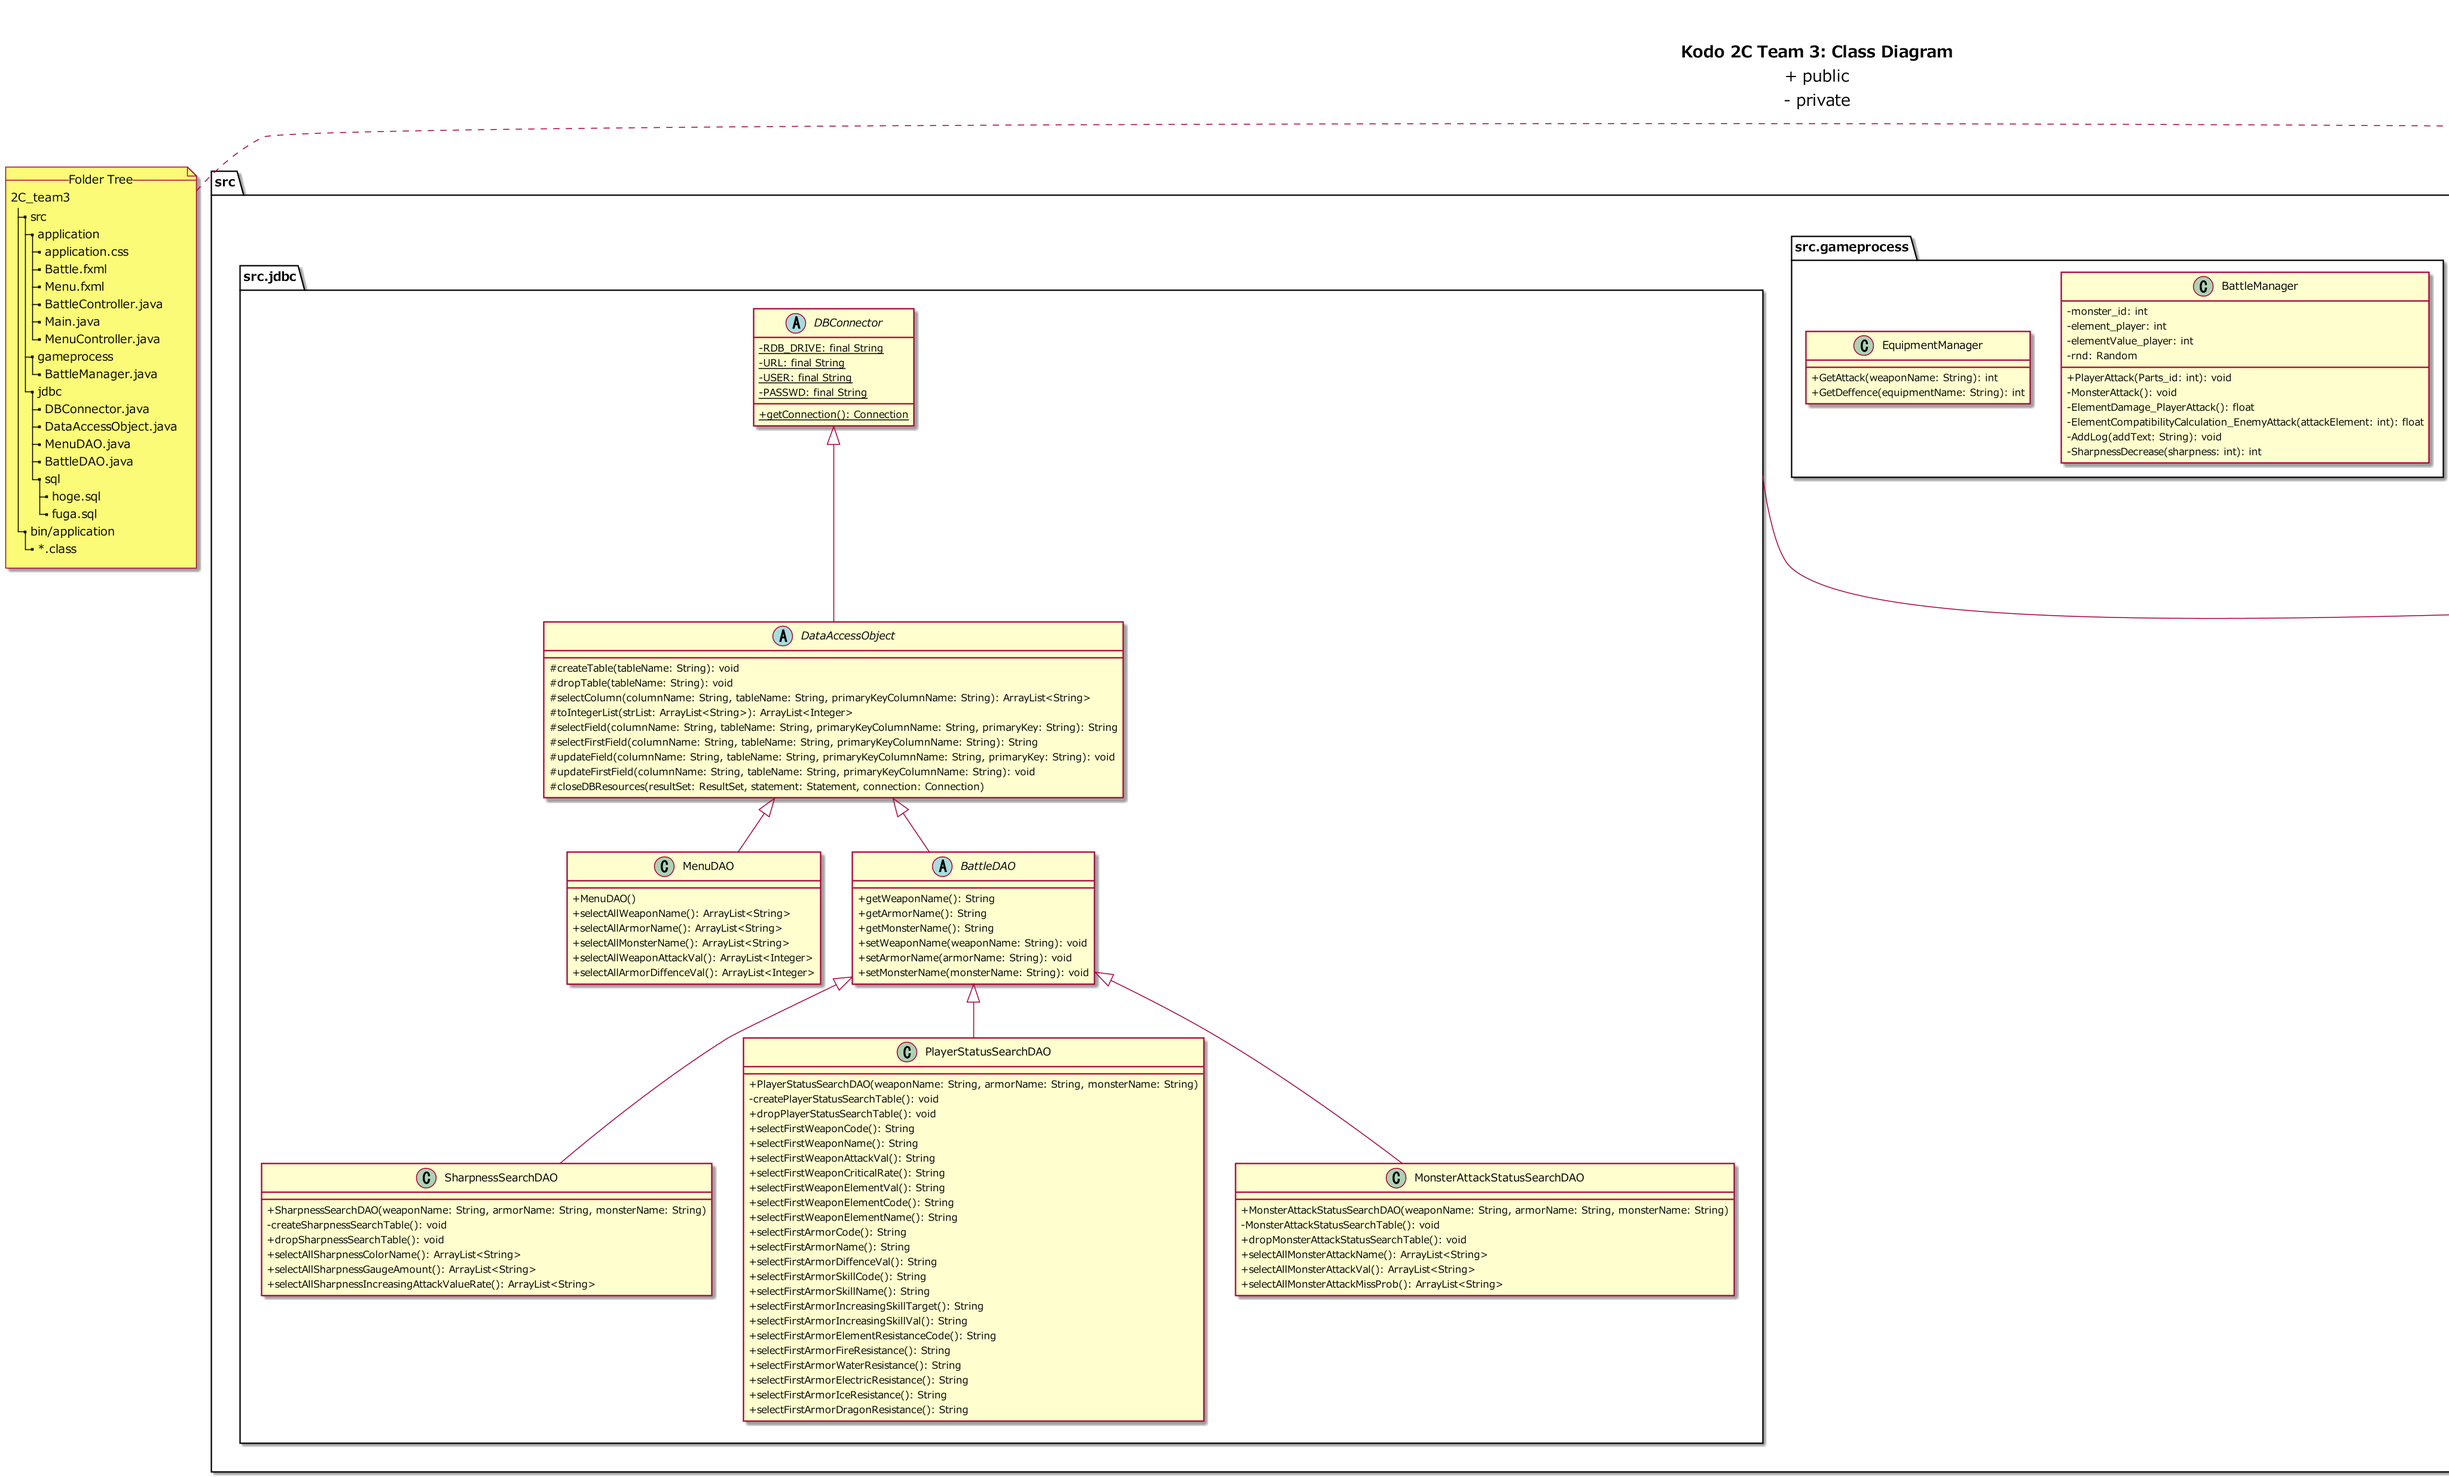
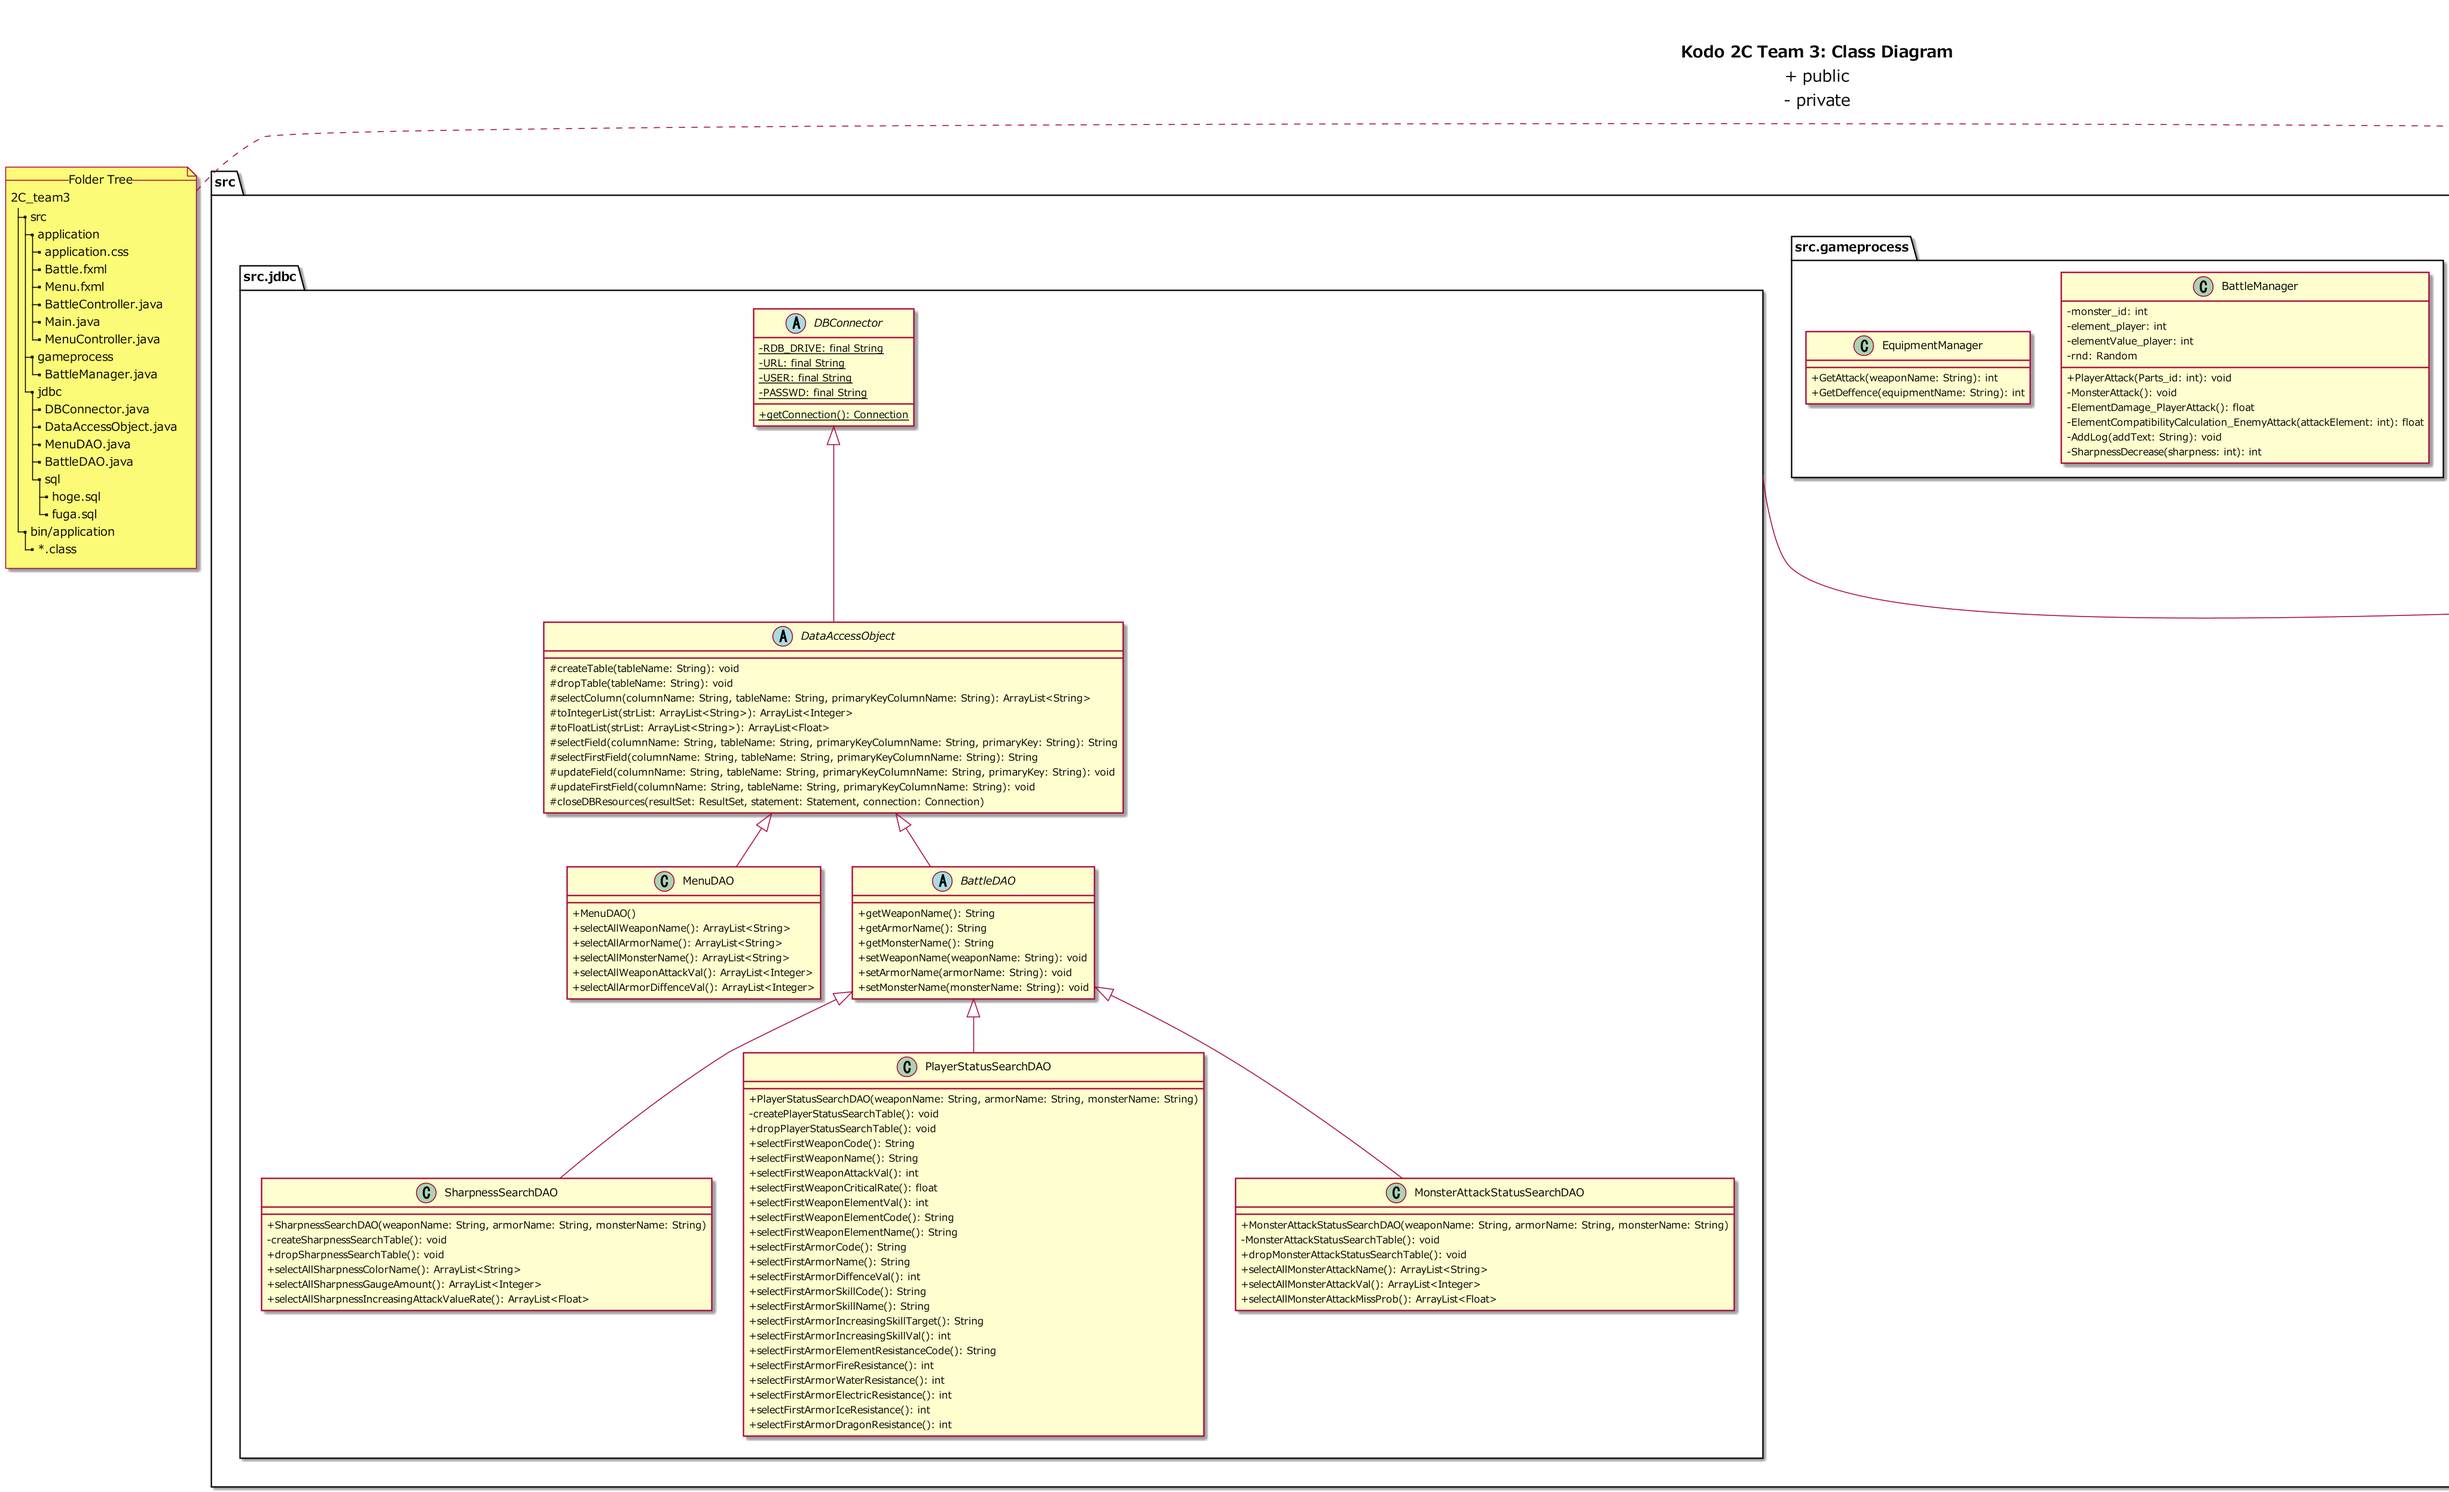
検索テーブルの返り値の型を変更

diff --git a/MonsterHunter/src/jdbc/PlayerStatusSearchDAO.java b/MonsterHunter/src/jdbc/PlayerStatusSearchDAO.java
@@ -76,11 +76,11 @@ public class PlayerStatusSearchDAO extends BattleDAO {
    * @brief 「プレイヤーステータス検索」テーブルの、武器攻撃力カラムの先頭のフィールドを返す
    * @return 武器攻撃力の先頭のフィールド
    */
-  public String selectFirstWeaponAttackVal() {
+  public int selectFirstWeaponAttackVal() {
     String columnName = "weapon_val";
     String tableName = "player_status";
     String primaryKeyColumnName = "player_code";
-    return selectFirstField(columnName, tableName, primaryKeyColumnName);
+    return Integer.parseInt(selectFirstField(columnName, tableName, primaryKeyColumnName));
   }
 
   /**
@@ -88,11 +88,11 @@ public class PlayerStatusSearchDAO extends BattleDAO {
    * @brief 「プレイヤーステータス検索」テーブルの、武器会心率カラムの先頭のフィールドを返す
    * @return 武器会心率の先頭のフィールド
    */
-  public String selectFirstWeaponCriticalRate() {
+  public float selectFirstWeaponCriticalRate() {
     String columnName = "weapon_criticalRate";
     String tableName = "player_status";
     String primaryKeyColumnName = "player_code";
-    return selectFirstField(columnName, tableName, primaryKeyColumnName);
+    return Float.parseFloat(selectFirstField(columnName, tableName, primaryKeyColumnName));
   }
 
   /**
@@ -100,11 +100,11 @@ public class PlayerStatusSearchDAO extends BattleDAO {
    * @brief 「プレイヤーステータス検索」テーブルの、武器属性数値カラムの先頭のフィールドを返す
    * @return 武器属性数値の先頭のフィールド
    */
-  public String selectFirstWeaponElementVal() {
+  public int selectFirstWeaponElementVal() {
     String columnName = "weapon_element_val";
     String tableName = "player_status";
     String primaryKeyColumnName = "player_code";
-    return selectFirstField(columnName, tableName, primaryKeyColumnName);
+    return Integer.parseInt(selectFirstField(columnName, tableName, primaryKeyColumnName));
   }
 
   /**
@@ -160,11 +160,11 @@ public class PlayerStatusSearchDAO extends BattleDAO {
    * @brief 「プレイヤーステータス検索」テーブルの、防具防御力カラムの先頭のフィールドを返す
    * @return 防具防御力の先頭のフィールド
    */
-  public String selectFirstArmorDiffenceVal() {
+  public int selectFirstArmorDiffenceVal() {
     String columnName = "aromor_diffence_val";
     String tableName = "player_status";
     String primaryKeyColumnName = "player_code";
-    return selectFirstField(columnName, tableName, primaryKeyColumnName);
+    return Integer.parseInt(selectFirstField(columnName, tableName, primaryKeyColumnName));
   }
 
   /**
@@ -208,11 +208,11 @@ public class PlayerStatusSearchDAO extends BattleDAO {
    * @brief 「プレイヤーステータス検索」テーブルの、防具スキル上昇数値カラムの先頭のフィールドを返す
    * @return 防具スキル上昇数値の先頭のフィールド
    */
-  public String selectFirstArmorIncreasingSkillVal() {
+  public int selectFirstArmorIncreasingSkillVal() {
     String columnName = "aromor_increasing_skill_val";
     String tableName = "player_status";
     String primaryKeyColumnName = "player_code";
-    return selectFirstField(columnName, tableName, primaryKeyColumnName);
+    return Integer.parseInt(selectFirstField(columnName, tableName, primaryKeyColumnName));
   }
 
   /**
@@ -232,11 +232,11 @@ public class PlayerStatusSearchDAO extends BattleDAO {
    * @brief 「プレイヤーステータス検索」テーブルの、防具火耐性カラムの先頭のフィールドを返す
    * @return 防具火耐性の先頭のフィールド
    */
-  public String selectFirstArmorFireResistance() {
+  public int selectFirstArmorFireResistance() {
     String columnName = "aromor_fire_resistance";
     String tableName = "player_status";
     String primaryKeyColumnName = "player_code";
-    return selectFirstField(columnName, tableName, primaryKeyColumnName);
+    return Integer.parseInt(selectFirstField(columnName, tableName, primaryKeyColumnName));
   }
 
   /**
@@ -244,11 +244,11 @@ public class PlayerStatusSearchDAO extends BattleDAO {
    * @brief 「プレイヤーステータス検索」テーブルの、防具水耐性カラムの先頭のフィールドを返す
    * @return 防具水耐性の先頭のフィールド
    */
-  public String selectFirstArmorWaterResistance() {
+  public int selectFirstArmorWaterResistance() {
     String columnName = "aromor_water_resistance";
     String tableName = "player_status";
     String primaryKeyColumnName = "player_code";
-    return selectFirstField(columnName, tableName, primaryKeyColumnName);
+    return Integer.parseInt(selectFirstField(columnName, tableName, primaryKeyColumnName));
   }
 
   /**
@@ -256,11 +256,11 @@ public class PlayerStatusSearchDAO extends BattleDAO {
    * @brief 「プレイヤーステータス検索」テーブルの、防具雷耐性カラムの先頭のフィールドを返す
    * @return 防具雷耐性の先頭のフィールド
    */
-  public String selectFirstArmorElectricResistance() {
+  public int selectFirstArmorElectricResistance() {
     String columnName = "aromor_electric_resistance";
     String tableName = "player_status";
     String primaryKeyColumnName = "player_code";
-    return selectFirstField(columnName, tableName, primaryKeyColumnName);
+    return Integer.parseInt(selectFirstField(columnName, tableName, primaryKeyColumnName));
   }
 
   /**
@@ -268,11 +268,11 @@ public class PlayerStatusSearchDAO extends BattleDAO {
    * @brief 「プレイヤーステータス検索」テーブルの、防こ氷耐性カラムの先頭のフィールドを返す
    * @return 防こ氷耐性の先頭のフィールド
    */
-  public String selectFirstArmorIceResistance() {
+  public int selectFirstArmorIceResistance() {
     String columnName = "aromor_ice_resistance";
     String tableName = "player_status";
     String primaryKeyColumnName = "player_code";
-    return selectFirstField(columnName, tableName, primaryKeyColumnName);
+    return Integer.parseInt(selectFirstField(columnName, tableName, primaryKeyColumnName));
   }
 
   /**
@@ -280,10 +280,10 @@ public class PlayerStatusSearchDAO extends BattleDAO {
    * @brief 「プレイヤーステータス検索」テーブルの、防具龍耐性カラムの先頭のフィールドを返す
    * @return 防具龍耐性の先頭のフィールド
    */
-  public String selectFirstArmorDragonResistance() {
+  public int selectFirstArmorDragonResistance() {
     String columnName = "aromor_dragon_resistance";
     String tableName = "player_status";
     String primaryKeyColumnName = "player_code";
-    return selectFirstField(columnName, tableName, primaryKeyColumnName);
+    return Integer.parseInt(selectFirstField(columnName, tableName, primaryKeyColumnName));
   }
 }

diff --git a/MonsterHunter/src/jdbc/MonsterAttackStatusSearchDAO.java b/MonsterHunter/src/jdbc/MonsterAttackStatusSearchDAO.java
@@ -65,11 +65,11 @@ public class MonsterAttackStatusSearchDAO extends BattleDAO {
    * @brief 「モンスター攻撃ステータス検索」テーブルの、モンスター攻撃力カラムの全てのフィールドを返す
    * @return モンスター攻撃力のリスト
    */
-  public ArrayList<String> selectAllMonsterAttackVal() {
+  public ArrayList<Integer> selectAllMonsterAttackVal() {
     String columnName = "monster_attack_val";
     String tableName = "monster_attack_status_search";
     String primaryKeyColumnName = "monster_attack_code";
-    return selectColumn(columnName, tableName, primaryKeyColumnName);
+    return this.toIntegerList(selectColumn(columnName, tableName, primaryKeyColumnName));
   }
 
   /**
@@ -77,10 +77,10 @@ public class MonsterAttackStatusSearchDAO extends BattleDAO {
    * @brief 「モンスター攻撃ステータス検索」テーブルの、モンスター攻撃ミス確率カラムの全てのフィールドを返す
    * @return モンスター攻撃ミス確率のリスト
    */
-  public ArrayList<String> selectAllMonsterAttackMissProb() {
+  public ArrayList<Float> selectAllMonsterAttackMissProb() {
     String columnName = "monster_attack_miss_prob";
     String tableName = "monster_attack_status_search";
     String primaryKeyColumnName = "monster_attack_code";
-    return selectColumn(columnName, tableName, primaryKeyColumnName);
+    return this.toFloatList(selectColumn(columnName, tableName, primaryKeyColumnName));
   }
 }

diff --git a/MonsterHunter/src/jdbc/SharpnessSearchDAO.java b/MonsterHunter/src/jdbc/SharpnessSearchDAO.java
@@ -62,11 +62,11 @@ public class SharpnessSearchDAO extends BattleDAO {
    * @brief 切れ味色ごと検索テーブルの切れ味ゲージ量名カラムの全てのフィールドを返す
    * @return 全切れ味ゲージ量名のリスト
    */
-  public ArrayList<String> selectAllSharpnessGaugeAmount() {
+  public ArrayList<Integer> selectAllSharpnessGaugeAmount() {
     String columnName = "sharpness_gauge_amount";
     String tableName = "sharpness_search";
     String primaryKeyColumnName = "sharpness_color_code";
-    return selectColumn(columnName, tableName, primaryKeyColumnName);
+    return this.toIntegerList(selectColumn(columnName, tableName, primaryKeyColumnName));
   }
 
   /**
@@ -74,10 +74,10 @@ public class SharpnessSearchDAO extends BattleDAO {
    * @brief 切れ味色ごと検索テーブルの切れ味攻撃力倍率カラムの全てのフィールドを返す
    * @return 全切れ味攻撃力倍率のリスト
    */
-  public ArrayList<String> selectAllSharpnessIncreasingAttackValueRate() {
+  public ArrayList<Float> selectAllSharpnessIncreasingAttackValueRate() {
     String columnName = "sharpness_increasing_attack_value_rate";
     String tableName = "sharpness_search";
     String primaryKeyColumnName = "sharpness_color_code";
-    return selectColumn(columnName, tableName, primaryKeyColumnName);
+    return this.toFloatList(selectColumn(columnName, tableName, primaryKeyColumnName));
   }
 }

diff --git a/MonsterHunter/src/jdbc/DataAccessObject.java b/MonsterHunter/src/jdbc/DataAccessObject.java
@@ -99,6 +99,20 @@ abstract class DataAccessObject extends DBConnector {
   }
 
   /**
+   * @fn toFloatList
+   * @brief StringのリストをFloatのリストに変換
+   * @param[in] strList
+   * @return floatList
+   */
+  protected ArrayList<Float> toFloatList(ArrayList<String> strList) {
+    ArrayList<Float> floatList = new ArrayList<Float>();
+    for (String str : strList) {
+      floatList.add(Float.parseFloat(str));
+    }
+    return floatList;
+  }
+
+  /**
    * @fn selectField
    * @brief 主キーで指定したフィールドを返す
    * @param[in] columnName: 検索したいフィールドが存在するカラムの名前
